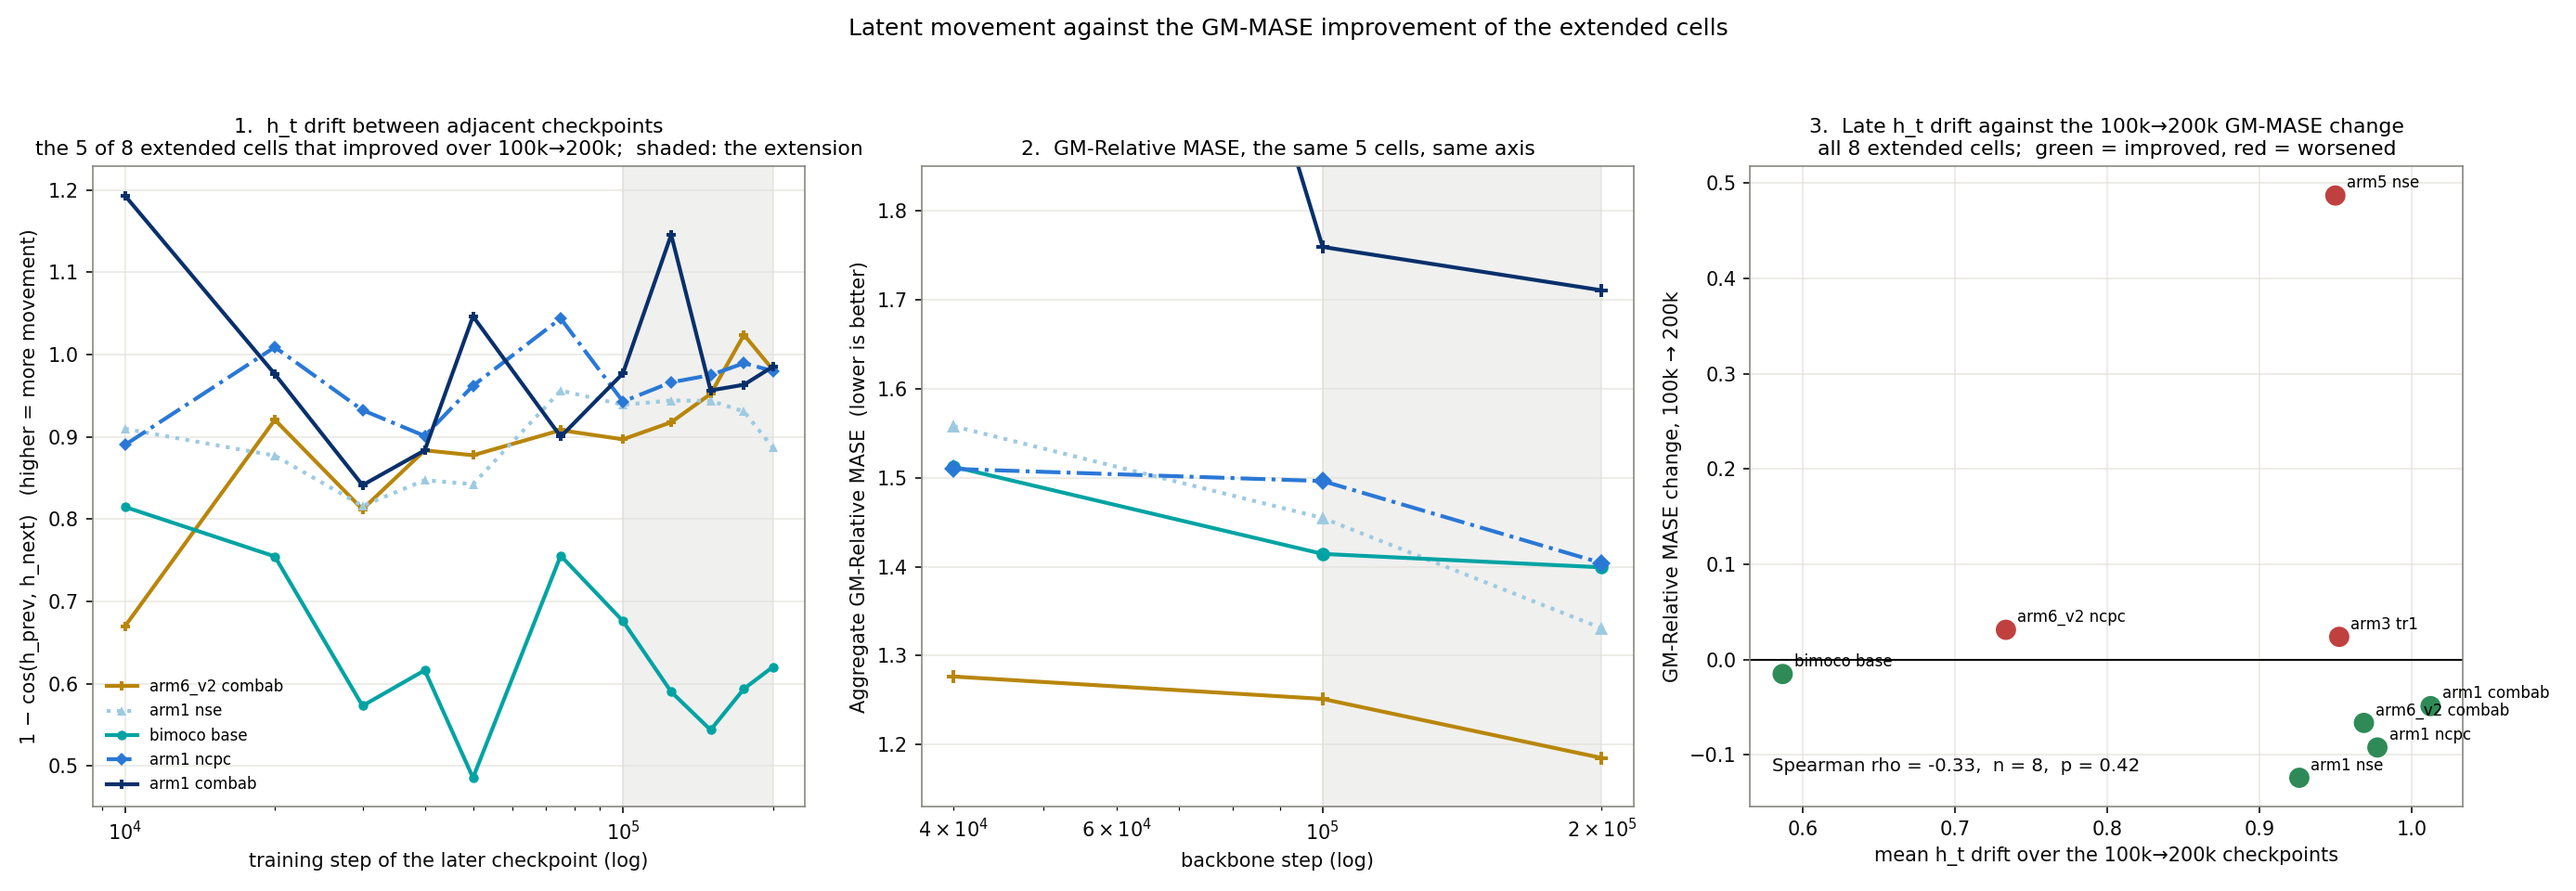
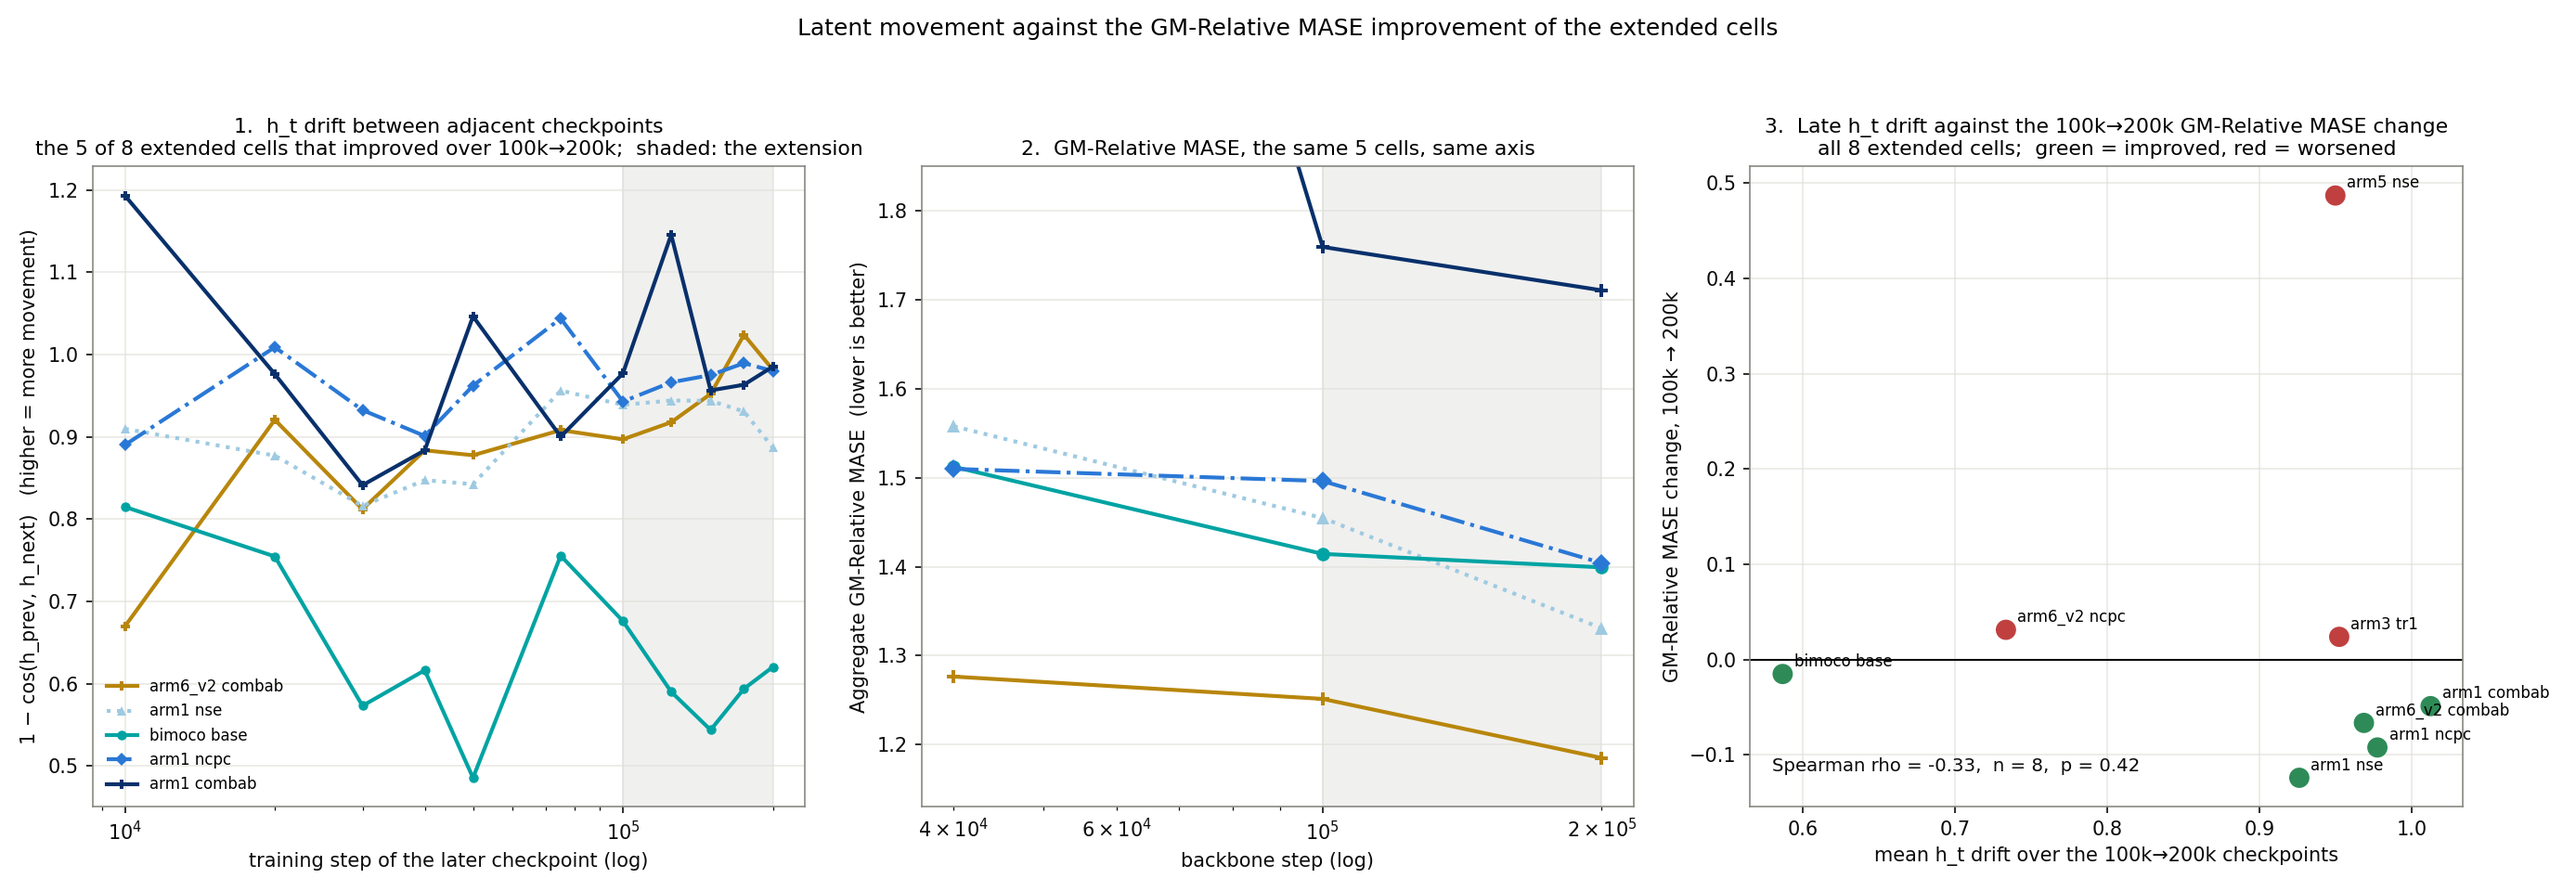
exp(#390): seventeenth-pass report — a bound on the aggregate null, the 100k provenance marker, the re-heading selection rule
The headline null now carries an interval: mean paired difference -0.0192,
95% t interval -0.0882 to +0.0497 over the ten cells (-0.0140, -0.0804 to
+0.0525 on the three-seed basis), so the design excludes an aggregate shift
of about 0.09 and nothing smaller. Both intervals are in the aggregate
table. The ten pairs are two recipes by five settings on one backbone seed;
the recipe-cluster enumeration (-0.0657 to +0.0273) is degenerate at two
clusters, so the t is quoted and the nominal-n caveat is stated.

Provenance was verified at 40k only, so the arm5 base row of the 100k table
now carries the same marker and the caveat that a replicate-sized shift of
about 0.1 cannot be ruled out for it.

The two re-headed cells were picked by hand after their single-seed deltas
were known; that is now stated, with arm5 ncpc's untested -0.2156, the
3-of-3 sign observation (p 0.25) and the -0.0133 to -0.0230 per-seed span.

arm1 combab's loss does fall: the clause is replaced by the measured
rise-from-minimum of 4.4648. Section 4's finding moves from caption to body,
section 5's heading states its answer, the drift figure uses GM-Relative
MASE in both titles, and the head-seed caveat is stated once.

Changed region(s): [[0.3099, 0.0, 0.6818, 0.0625], [0.6818, 0.125, 0.9607, 0.1562]]

diff --git a/reports/2026-08-04_lalign_teacher/plots/_make_drift_vs_improvement.py b/reports/2026-08-04_lalign_teacher/plots/_make_drift_vs_improvement.py
@@ -147,12 +147,12 @@ ax.text(0.03, 0.05, f"Spearman rho = {rho:+.2f},  n = {len(xs)},  p = {_p:.2f}",
         transform=ax.transAxes, ha="left", va="bottom", fontsize=9.5, color=INK)
 ax.set_xlabel("mean h_t drift over the 100k→200k checkpoints")
 ax.set_ylabel("GM-Relative MASE change, 100k → 200k")
-ax.set_title(f"3.  Late h_t drift against the 100k→200k GM-MASE change\n"
+ax.set_title(f"3.  Late h_t drift against the 100k→200k GM-Relative MASE change\n"
              f"all {len(xs)} extended cells;  green = improved, red = worsened",
              fontsize=10.5)
 ax.grid(True, color=GRID, alpha=0.7)
 
-fig.suptitle("Latent movement against the GM-MASE improvement of the extended cells", fontsize=12)
+fig.suptitle("Latent movement against the GM-Relative MASE improvement of the extended cells", fontsize=12)
 fig.tight_layout(rect=[0, 0, 1, 0.94])
 out = HERE / "drift_vs_improvement.png"
 fig.savefig(out)

diff --git a/reports/2026-08-04_lalign_teacher/lalign_teacher.md b/reports/2026-08-04_lalign_teacher/lalign_teacher.md
@@ -1,4 +1,4 @@
-# The EMA-teacher alignment target does not move the set of 10 cells, and the one cell whose difference survives head-seed variation moves down by less than 0.02
+# The EMA-teacher alignment target does not move the set of 10 cells, and of the 2 cells re-headed the one whose difference survives moves down by 0.017 on the mean of three head seeds
 
 The EMA-teacher alignment target does not move the ten cells as a set at backbone 40k. On the two cells re-headed under three head seeds, the larger effect changes sign and the smaller one does not.
 
@@ -9,6 +9,8 @@ The EMA-teacher alignment target does not move the ten cells as a set at backbon
 ![Per-seed GM-Relative MASE on eight frozen backbones](plots/head_seed_spread.png)
 
 *Eight frozen backbones, every cell in this report carrying replicate head seeds (`results/seed_spread.csv`). Teal = backbone 40k, both sides of the controlled comparison.*
+
+The mean paired difference over the ten cells is −0.0192 with a 95% interval of [−0.0882, +0.0497], so this design excludes an aggregate shift larger than about 0.09 and nothing smaller, roughly 6% of a typical cell value of 1.4 and five times what the one surviving cell moves.
 
 Seven of the ten left-panel intervals exclude zero, and they cover eval sampling alone: on `arm5 base` that interval is [−0.1504, −0.0450] while re-heading the same pair produced −0.0986 to +0.0174.
 
@@ -38,9 +40,7 @@ Nine of the ten student controls reproduce the earlier sweep's number within 0.0
 
 ![GM-Relative MASE of the 8 cells extended to backbone 200k](plots/eval_2L_gm_mase_bars_200k.png)
 
-*The 8 cells extended past 100k. Filled dot = backbone 200k, hollow = 100k, vertical whisker = measured head-seed range, on the 3 of 8 cells that carry replicate seeds.*
-
-Five of those eight improved again from 100k to 200k, over a set selected for extension because it had already improved from 40k to 100k.
+*The 8 cells extended past 100k, 5 of them lower again at 200k, over a set selected for extension because it had already improved from 40k to 100k. Filled dot = backbone 200k, hollow = 100k, vertical whisker = measured head-seed range, on the 3 of 8 cells that carry replicate seeds.*
 
 ## 3. Per-domain
 
@@ -48,21 +48,21 @@ Five of those eight improved again from 100k to 200k, over a set selected for ex
 
 *The headline geometric mean split by dataset domain. Right panel: the 8 cells at backbone 200k, the set of the per-domain table. Per-config source: `results/eval_gm_mase/<cell>_bb<step>k_hd<head>s/all_results.csv`, same seasonal-naive denominator as the aggregate.*
 
-Those eight cells fall below parity on Nature (6 of 8) and on Sales (7 of 8), and on no other domain.
+Those eight cells fall below parity on Nature (6 of 8 cells, 15 configs) and on Sales (7 of 8 cells, 4 configs), and on no other domain.
 
 ## 4. The retrained cells against the earlier sweep
 
 ![Teacher minus earlier-sweep GM-Relative MASE at backbone 100k](plots/cross_delta_100k.png)
 
-*The ten retrained cells against the earlier sweep at backbone 100k: 4 of 10 lower under the teacher target, sign test p = 0.75. Same construction as the right panel of the headline figure (`results/eval_bootstrap_ci.csv`, `results/eval_paired_tests.csv`). No student side at either step carries a replicate head seed.*
+*Teacher minus earlier-sweep GM-Relative MASE at backbone 100k (`results/eval_bootstrap_ci.csv`, `results/eval_paired_tests.csv`).*
 
-## 5. Does latent movement track the improvement
+Four of the ten retrained cells score lower than the earlier sweep at backbone 100k (sign test p = 0.75), and this comparison moves the flag and the code snapshot together, so it does not isolate the flag.
+
+## 5. Latent drift does not separate the improvers
 
 ![Late h_t drift against the 100k to 200k change in GM-Relative MASE](plots/drift_vs_improvement.png)
 
-*`h_t` drift and GM-Relative MASE for the extended cells (`results/latent_movement_pairs.csv`, 250 pairs over the 30 arms).*
-
-Late drift does not separate the improvers at this sample size; in panel 2, `arm1 combab` starts at 3.13, above the shown range.
+*`h_t` drift and GM-Relative MASE (`results/latent_movement_pairs.csv`). In panel 2, `arm1 combab` starts at 3.13, above the shown range.*
 
 ## 6. The worst cell at each horizon
 
@@ -70,7 +70,7 @@ Late drift does not separate the improvers at this sample size; in panel 2, `arm
 
 *The three cells with the highest GM-Relative MASE of the field at backbone 40k, at 100k and at 200k (`results/gm_relative_mase.csv`, `results/training_curves/`, `results/attn_amplitude/`). Selected run in colour, the other four settings of the same recipe in grey.*
 
-No non-finite loss or gap appears in any of the 40 backbones; `arm1 combab` never brings its loss down, while `arm5 nse` trains down and its peak attention logit tops the 40 without standing apart from the next values ([table](#loss-and-attention-of-the-worst-cell)).
+No non-finite loss or gap appears in any of the 40 backbones; `arm1 combab` ends 4.4648 above its own loss minimum, the largest rise of the 40 backbones, and its loss is higher at the end of the 0–40k window than at the start, while `arm5 nse` trains down and its peak attention logit tops the 40 without standing apart from the next values ([table](#loss-and-attention-of-the-worst-cell)).
 
 ## 7. Tables
 
@@ -132,7 +132,7 @@ No non-finite loss or gap appears in any of the 40 backbones; `arm1 combab` neve
 
 | Cell | teacher | earlier sweep | ratio | CI 95% lo | CI 95% hi | CI excludes 1 |
 |---|---|---|---|---|---|---|
-| `arm5 base` | 1.4510 | 1.5579 | 0.9314 | 0.8881 | 0.9669 | yes |
+| `arm5 base` ⧗ | 1.4510 | 1.5579 | 0.9314 | 0.8881 | 0.9669 | yes |
 | `arm5 tr1` | 1.3710 | 1.4249 | 0.9622 | 0.9061 | 1.0084 | no |
 | `arm5 nse` | 1.4017 | 1.3980 | 1.0026 | 0.9657 | 1.0395 | no |
 | `arm5 ncpc` | 1.3419 | 1.4459 | 0.9281 | 0.8658 | 0.9753 | yes |
@@ -143,7 +143,7 @@ No non-finite loss or gap appears in any of the 40 backbones; `arm1 combab` neve
 | `arm6_v2 ncpc` | 1.3012 | 1.2978 | 1.0027 | 0.9672 | 1.0452 | no |
 | `arm6_v2 combab` | 1.2514 | 1.1616 | 1.0773 | 1.0439 | 1.1254 | yes |
 
-*Backing data for section 4. Ratio = teacher ÷ earlier sweep, below 1.0 means the teacher run scored lower. Intervals are 95% dataset-cluster bootstraps (`results/eval_bootstrap_ci.csv`).*
+*Backing data for section 4. Ratio = teacher ÷ earlier sweep, below 1.0 means the teacher run scored lower. Intervals are 95% dataset-cluster bootstraps (`results/eval_bootstrap_ci.csv`) and cover eval sampling only. Backbone provenance was verified at 40k only; ⧗ marks the row whose 40k earlier-sweep number sits on a different backbone replicate, so a replicate-sized shift of about 0.1 cannot be ruled out for it here.*
 
 ### The controlled comparison at backbone 40k
 
@@ -175,12 +175,12 @@ No non-finite loss or gap appears in any of the 40 backbones; `arm1 combab` neve
 
 ### The aggregate over the ten cells, on both head-seed bases
 
-| Basis | mean | median | teacher lower / student lower | sign test p | Wilcoxon p |
-|---|---|---|---|---|---|
-| head seed 20260722, all ten cells | −0.0192 | −0.0143 | 6 / 4 | 0.75 | 0.70 |
-| three-seed mean where measured (2 of 10) | −0.0140 | −0.0157 | 6 / 4 | 0.75 | 0.77 |
+| Basis | mean | 95% interval on the mean | median | teacher lower / student lower | sign test p | Wilcoxon p |
+|---|---|---|---|---|---|---|
+| head seed 20260722, all ten cells | −0.0192 | −0.0882 to +0.0497 | −0.0143 | 6 / 4 | 0.75 | 0.70 |
+| three-seed mean where measured (2 of 10) | −0.0140 | −0.0804 to +0.0525 | −0.0157 | 6 / 4 | 0.75 | 0.77 |
 
-*Backing data for the opening (`results/controlled_paired_tests_40k.csv`). Both rows are the same ten cells and the same paired tests; they differ only in which head seed each of the two replicated cells contributes.*
+*Backing data for the opening (`results/controlled_paired_tests_40k.csv`). Both rows are the same ten cells and the same paired tests; they differ only in which head seed each of the two replicated cells contributes. The interval is a t interval over the ten paired differences, sd 0.0964 and 0.0928 respectively; the ten pairs are not independent (see [Protocol](#8-protocol)).*
 
 ### Latent drift of each setting against its recipe's base
 
@@ -247,7 +247,7 @@ No non-finite loss or gap appears in any of the 40 backbones; `arm1 combab` neve
 - **GM-Relative MASE** — geometric mean over 97 GIFT-Eval configs of `MASE(model) / MASE(seasonal_naive)`, official GIFT-Eval **B4 strategy** (single-window in-context prediction, backbone context length matching the config's expected horizon), forecast horizon 16. Lower is better; above 1.0 means seasonal naive wins on that geometric average. All 30 cells share one seasonal-naive denominator file, byte-identical to the earlier sweep's, so all of them sit on one scale.
 - **Rounding** — every aggregate in this report is computed at full precision from the per-config `all_results.csv` files and rounded once, to four decimals, at print time. A per-seed difference can therefore differ by 0.0001 from the difference of the two rounded numbers printed beside it. Section 1 is the exception: its table prints six decimals, and a row counts as reproducing when the difference is at most 0.0002 in absolute value, the resolution of the four-decimal tables elsewhere.
 - **95% dataset-cluster bootstrap** — the one interval used everywhere in this report: a dataset-level paired cluster bootstrap over the 28 base datasets, 10 000 resamples (`experiments/2026-08-01_lalign_teacher/scripts/controlled_delta.py`). It covers eval sampling only, conditional on the two trained models. The interval is computed on the ratio of the two GM-Relative MASE values; the whiskers in the delta figures are `(bound − 1) ×` the reference cell's GM-Relative MASE, which is what "rescaled" means in those figures.
-- **Head-seed range** — the spread of a cell's GM-Relative MASE when the quantile head is retrained on the frozen backbone under extra seeds, changing its init and its data order, with the full 97-config eval re-run each time. It covers head retraining, which the bootstrap interval does not. **It is a property of one cell.** The eight frozen backbones measured here range from 0.0018 to 0.0908, and the four measured at backbone 40k with a 15 000-step head, where every controlled delta sits, range from 0.0018 to 0.0747. A range read off one cell says nothing about another, and the 0.0908 comes from a backbone-200k cell with a 30 000-step head, so it does not gate a 40k delta; `results/seed_spread.csv` therefore keys on arm, backbone step, align target and code snapshot, never merging a teacher cell with a student cell.
+- **Head-seed range** — the spread of a cell's GM-Relative MASE when the quantile head is retrained on the frozen backbone under extra seeds, changing its init and its data order, with the full 97-config eval re-run each time. It covers head retraining, which the bootstrap interval does not. **It is a property of one cell.** The eight frozen backbones measured here range from 0.0018 to 0.0908, and the four measured at backbone 40k with a 15 000-step head, where every controlled delta sits, range from 0.0018 to 0.0747. A range read off one cell says nothing about another, wrong by up to a factor of 41 in either direction at 40k, and the 0.0908 comes from a backbone-200k cell with a 30 000-step head, so it does not gate a 40k delta; `results/seed_spread.csv` therefore keys on arm, backbone step, align target and code snapshot, never merging a teacher cell with a student cell.
 - **`h_t`, `e_t`** — the encoder-output latent and the patch-embedding latent, shape `[B, T, C, H]`.
 - **`ff`** — mean `cos(f̂, h_{t+1})` between the forecaster's next-step prediction and the encoder's next-step latent, unit-normalised. `1 − ff` is a cosine distance in [0, 2]; smaller = closer forecast.
 - **Latent drift** at checkpoint pair `(step_i, step_j)` — `mean_{b,t,c} 1 − cos(h_t(model_j), h_t(model_i))` on a fixed held-out batch (`torch.manual_seed(20260722)`, `B=8`, `T=4096`, `C=1`, ARMA-synthetic), and the same for `e_t`. A setting counts as *lower* than base when its mean drift over adjacent-checkpoint pairs falls below the base setting of the same recipe; the section-5 denominator is the six recipes and the p is a two-sided exact binomial test.
@@ -287,7 +287,11 @@ Eight cells were additionally re-headed under seeds 20260723 and 20260724 on the
 - The 200k row compares a teacher-selected subset against a differently selected subset of the earlier sweep, so no like-for-like 200k claim is available.
 - The ten per-cell intervals in the headline figure are 95% and uncorrected for the ten comparisons, so a per-cell reading is not a family-wise claim. The aggregate tests over the set of ten are the right frame (`results/controlled_paired_tests_40k.csv`).
 - Every backbone in this report, both targets, is seed 20260520. Nine of ten controls reproducing the earlier sweep therefore measures determinism given that seed, not the spread across backbone seeds. No cell here carries a second backbone seed.
-- The head-seed spread is measured on 2 of the 10 controlled cells. The other eight carry one head seed each and are marked `not measured` rather than given a spread borrowed from those two, which would be wrong by up to a factor of 41 in either direction.
+- The head-seed spread is measured on 2 of the 10 controlled cells; the other eight are marked `not measured`, not given a borrowed spread.
+- Those two cells, `arm5 base` and `arm5 combab`, were picked by hand after their single-seed deltas were known. No selection rule was fixed before the seeds ran. `arm5 ncpc` carries the largest single-seed difference of the run, −0.2156, and was never re-headed, so the title's surviving cell is one of two tested, not one of ten.
+- `arm5 combab` keeps its sign on all three head seeds. That is a 3-of-3 sign observation, p = 0.25 on its own, and its per-seed differences run −0.0133 to −0.0230, so 0.017 is the mean, not every measurement.
+- The ten pairs are two loss recipes by five settings on one backbone seed, and every pair shares the student baseline of its recipe's design, so `n = 10` in the sign and Wilcoxon tests is a nominal ten, not ten independent pairs. Resampling the two recipes as clusters gives means from −0.0657 to +0.0273, but with two clusters that enumeration is degenerate, so the interval quoted in the opening is the t over the ten pairs.
+- Backbone provenance was verified at backbone 40k only (section 1). The 100k table of section 4 inherits that risk on its `arm5 base` row, marked `⧗` there.
 - The 30-cell table is one head seed per cell. Its 40k→100k changes run from −1.3656 to +0.4735 and the one 40k head-seed range measured against them is 0.0747, so rank order in that table is not separable from head-seed noise.
 - The 6/4 direction split feeding the sign test is single-seed on 8 of the 10 cells, and one of the two tested splits flipped under re-heading. That widens the null rather than narrowing it, so it does not weaken the aggregate verdict.
 
